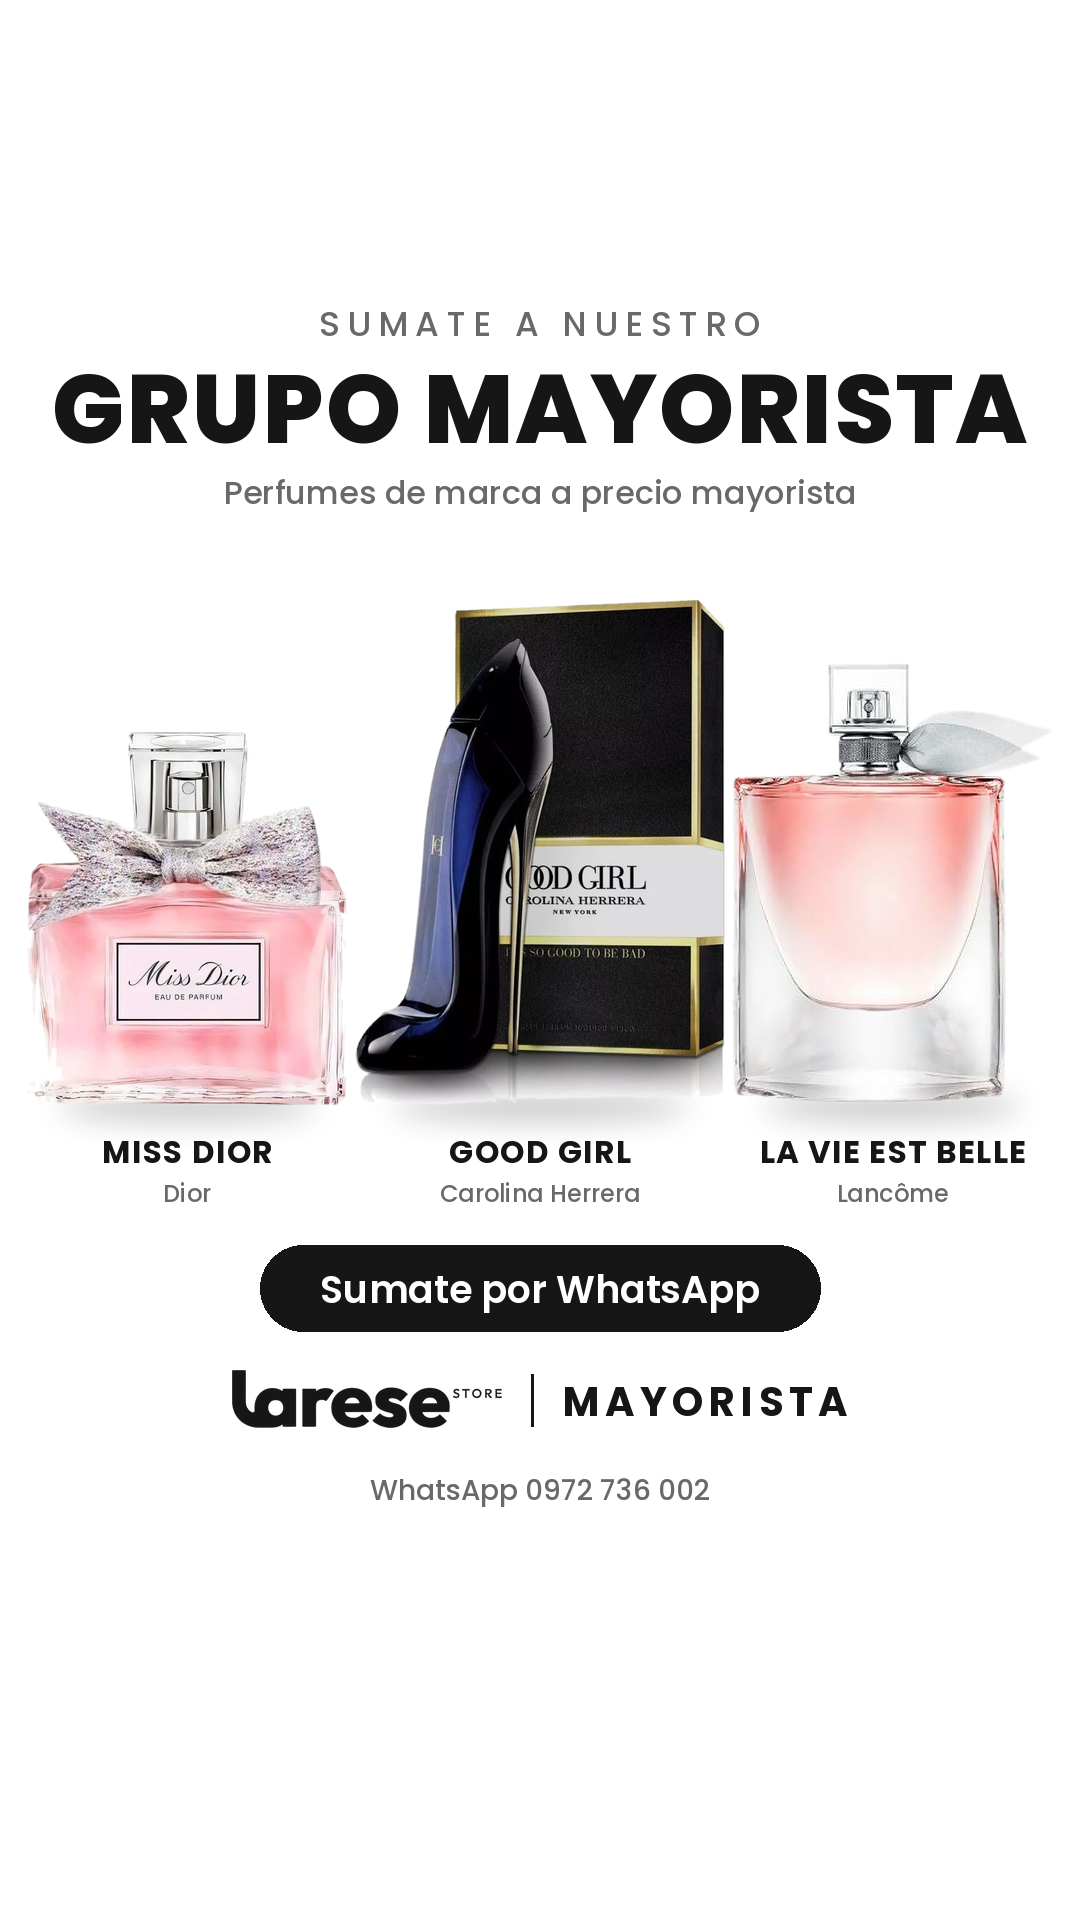
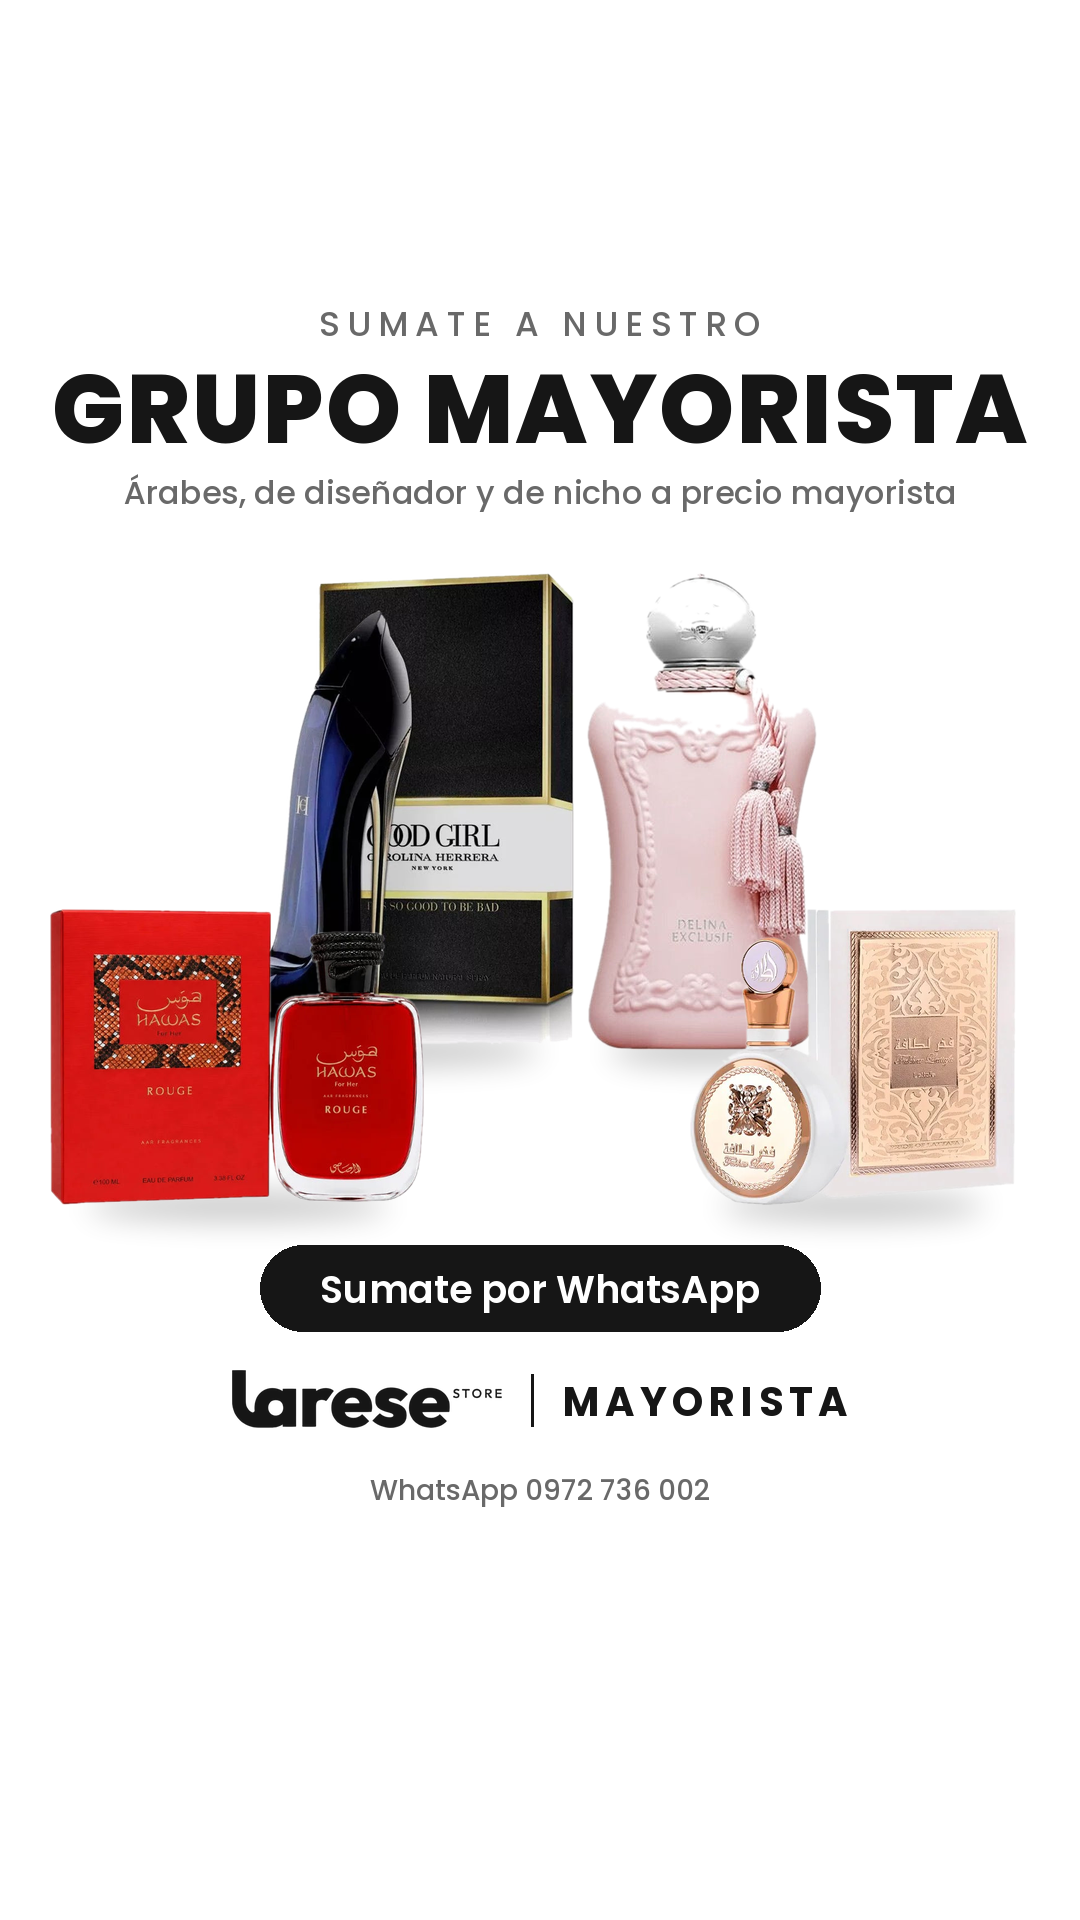
Wholesale ad: 4 perfumes (2 Arabic, 1 designer, 1 niche), no names
Four-product group layout: two in back, two in front.

Claude-Session: https://claude.ai/code/session_01DnzkNLBCvMq4y8uu7fepTP

Changed region(s): [[0.0306, 0.25, 0.9472, 0.6562]]

diff --git a/grupo-mayorista/crear_mayorista.py b/grupo-mayorista/crear_mayorista.py
@@ -20,6 +20,8 @@ Spec (JSON):
   "pie": "WhatsApp 0972 736 002"
 }
 "solo_frasco": si la foto trae frasco y caja separados, se queda con el de la izquierda.
+Con 4 productos se arma un grupo (orden: adelante-izq, atrás-izq, atrás-der, adelante-der)
+y no se muestran nombres. Con "mostrar_nombres": false tampoco en fila.
 """
 import json
 import os
@@ -38,9 +40,9 @@ from crear_pieza import (  # noqa: E402
 # posiciones (y) de cada bloque; la historia deja libre el 14 % de arriba y el 20 % de abajo
 FORMATOS = {
     "meta-historia": dict(size=(1080, 1920), k=1.0, ante_y=300, titulo_y=342, sub_y=470,
-                          prod=(545, 1105), nombres_y=1130, boton_y=1245, tienda_y=1370, pie_y=1470),
+                          prod=(545, 1105), prod_sin_nombres=(560, 1205), nombres_y=1130, boton_y=1245, tienda_y=1370, pie_y=1470),
     "meta-post": dict(size=(1080, 1350), k=0.82, ante_y=46, titulo_y=82, sub_y=186,
-                      prod=(250, 860), nombres_y=880, boton_y=990, tienda_y=1105, pie_y=1210),
+                      prod=(250, 860), prod_sin_nombres=(255, 950), nombres_y=880, boton_y=990, tienda_y=1105, pie_y=1210),
 }
 
 
@@ -93,34 +95,45 @@ def armar(SPEC, formato):
     fs = fuente(32 * k, "Medium")
     txt(d, cx, F["sub_y"], SPEC["subtitulo"], fs, GRIS)
 
-    y0, y1 = F["prod"]
+    sin_nombres = len(SPEC["productos"]) == 4 or not SPEC.get("mostrar_nombres", True)
+    y0, y1 = F["prod_sin_nombres"] if sin_nombres else F["prod"]
 
-    # los 3 perfumes sobre una misma base
-    prods = SPEC["productos"][:3]
-    n = len(prods)
-    margen = 24
-    pesos = [1.0] * n
-    if n == 3:
-        pesos = [0.95, 1.10, 0.95]  # el del medio un poco más ancho
-    anchos = [(w - 2 * margen) * pe / sum(pesos) for pe in pesos]
-    for i, pr in enumerate(prods):
-        slot = anchos[i]
+    prods = SPEC["productos"]
+    cargados = []
+    for pr in prods:
         p, ok = cargar_producto(pr["imagen"])
         if not ok:
             raise SystemExit(f"No se pudo recortar {pr['imagen']}")
-        if pr.get("solo_frasco"):
-            p = solo_frasco(p)
-        pcx = margen + sum(anchos[:i]) + slot / 2
-        pegar(img, p, pcx, y1, slot * 0.98, (y1 - y0) * (1.0 if i == 1 else 0.90))
+        cargados.append(solo_frasco(p) if pr.get("solo_frasco") else p)
+    alto_zona = y1 - y0
 
-        d = ImageDraw.Draw(img)
-        fn = fuente(31 * k, "Bold")
-        nombre = pr["nombre"].upper()
-        while ancho_txt(d, nombre, fn, 1.5) > slot - 16:
-            fn = fuente(fn.size - 2, "Bold")
-        y = F["nombres_y"]
-        txt(d, pcx, y, nombre, fn, TEXTO, esp=1.5)
-        txt(d, pcx, y + alto_linea(fn, 1.05), pr["marca"], fuente(24 * k, "Medium"), GRIS)
+    if len(prods) == 4:
+        # grupo: los 2 del medio atrás y más grandes, los 2 de las puntas adelante
+        # (centro x relativo, base relativa en la zona, alto relativo, ancho máx relativo)
+        lugares = [(0.22, 1.00, 0.46, 0.40), (0.37, 0.76, 0.74, 0.36),
+                   (0.65, 0.76, 0.74, 0.30), (0.79, 1.00, 0.46, 0.38)]
+        for i in (1, 2, 0, 3):  # primero los de atrás
+            rx, rb, rh, rw = lugares[i]
+            pegar(img, cargados[i], w * rx, y0 + alto_zona * rb, w * rw, alto_zona * rh)
+    else:
+        # en fila, sobre una misma base (el del medio un poco más grande)
+        n = len(prods)
+        margen = 24
+        pesos = [0.95, 1.10, 0.95] if n == 3 else [1.0] * n
+        anchos = [(w - 2 * margen) * pe / sum(pesos) for pe in pesos]
+        for i, pr in enumerate(prods):
+            slot = anchos[i]
+            pcx = margen + sum(anchos[:i]) + slot / 2
+            pegar(img, cargados[i], pcx, y1, slot * 0.98, alto_zona * (1.0 if i == n // 2 else 0.90))
+            if SPEC.get("mostrar_nombres", True) and pr.get("nombre"):
+                d = ImageDraw.Draw(img)
+                fn = fuente(31 * k, "Bold")
+                nombre = pr["nombre"].upper()
+                while ancho_txt(d, nombre, fn, 1.5) > slot - 16:
+                    fn = fuente(fn.size - 2, "Bold")
+                y = F["nombres_y"]
+                txt(d, pcx, y, nombre, fn, TEXTO, esp=1.5)
+                txt(d, pcx, y + alto_linea(fn, 1.05), pr.get("marca", ""), fuente(24 * k, "Medium"), GRIS)
 
     # botón
     d = ImageDraw.Draw(img)
